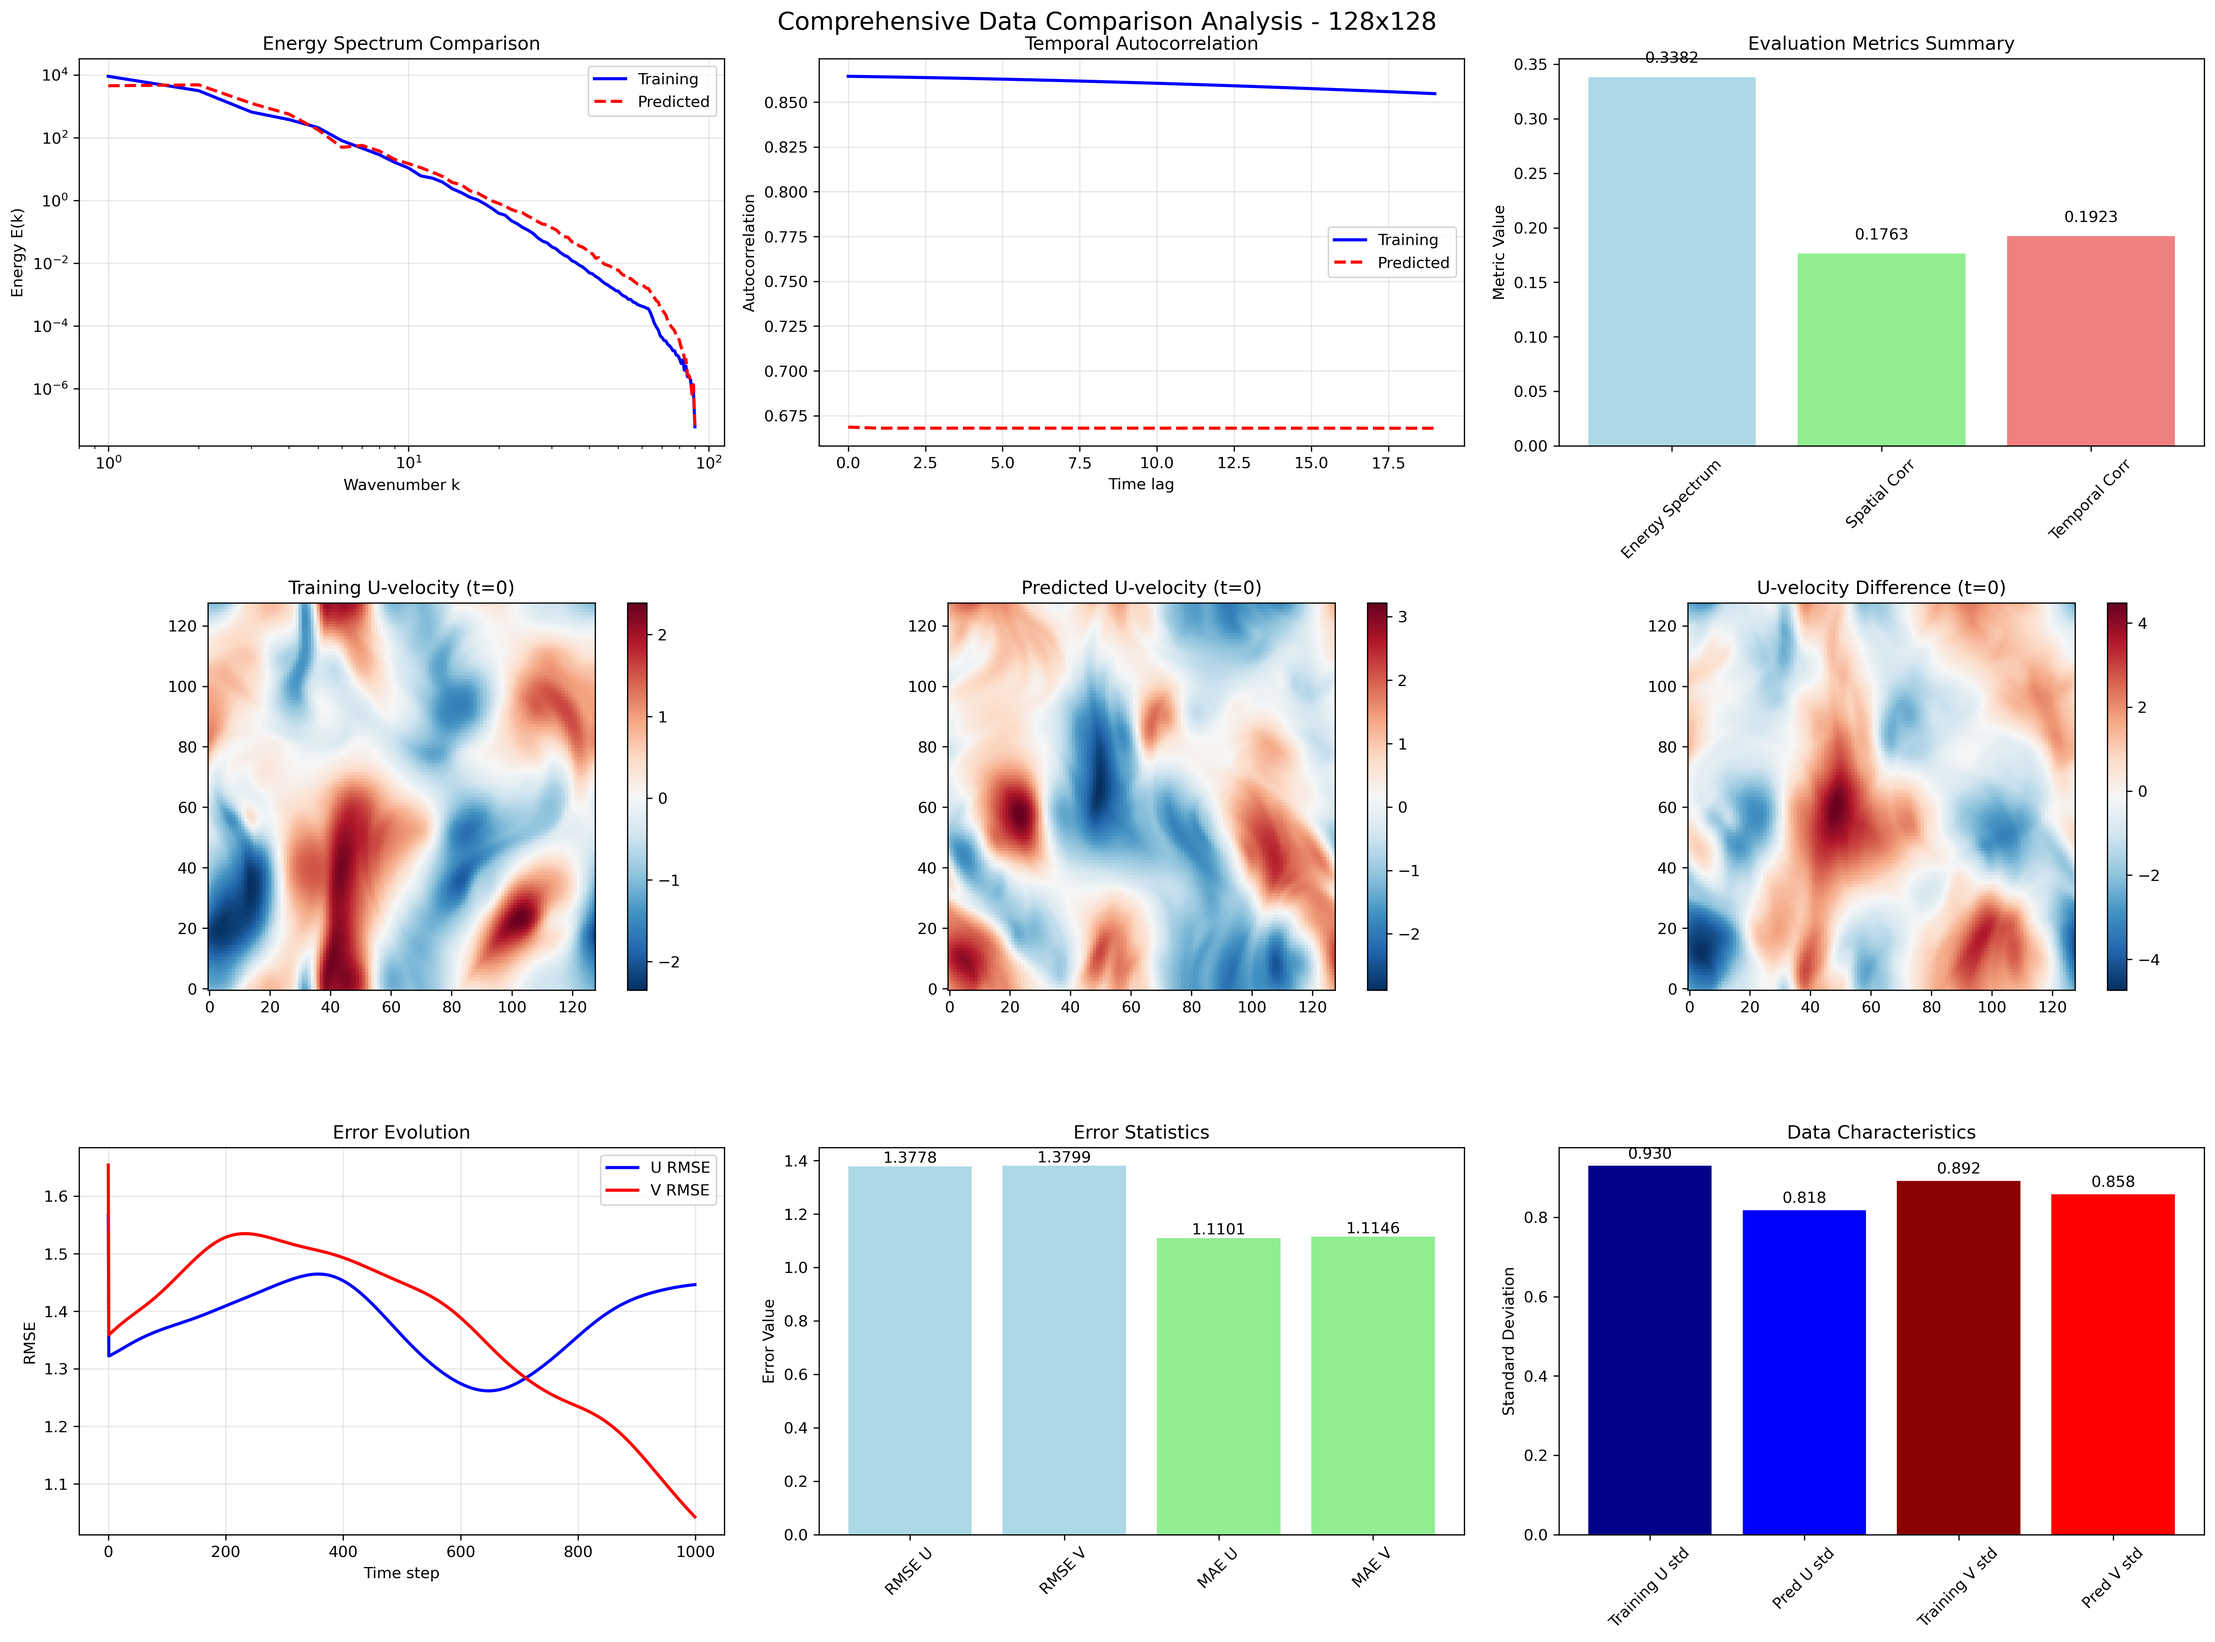
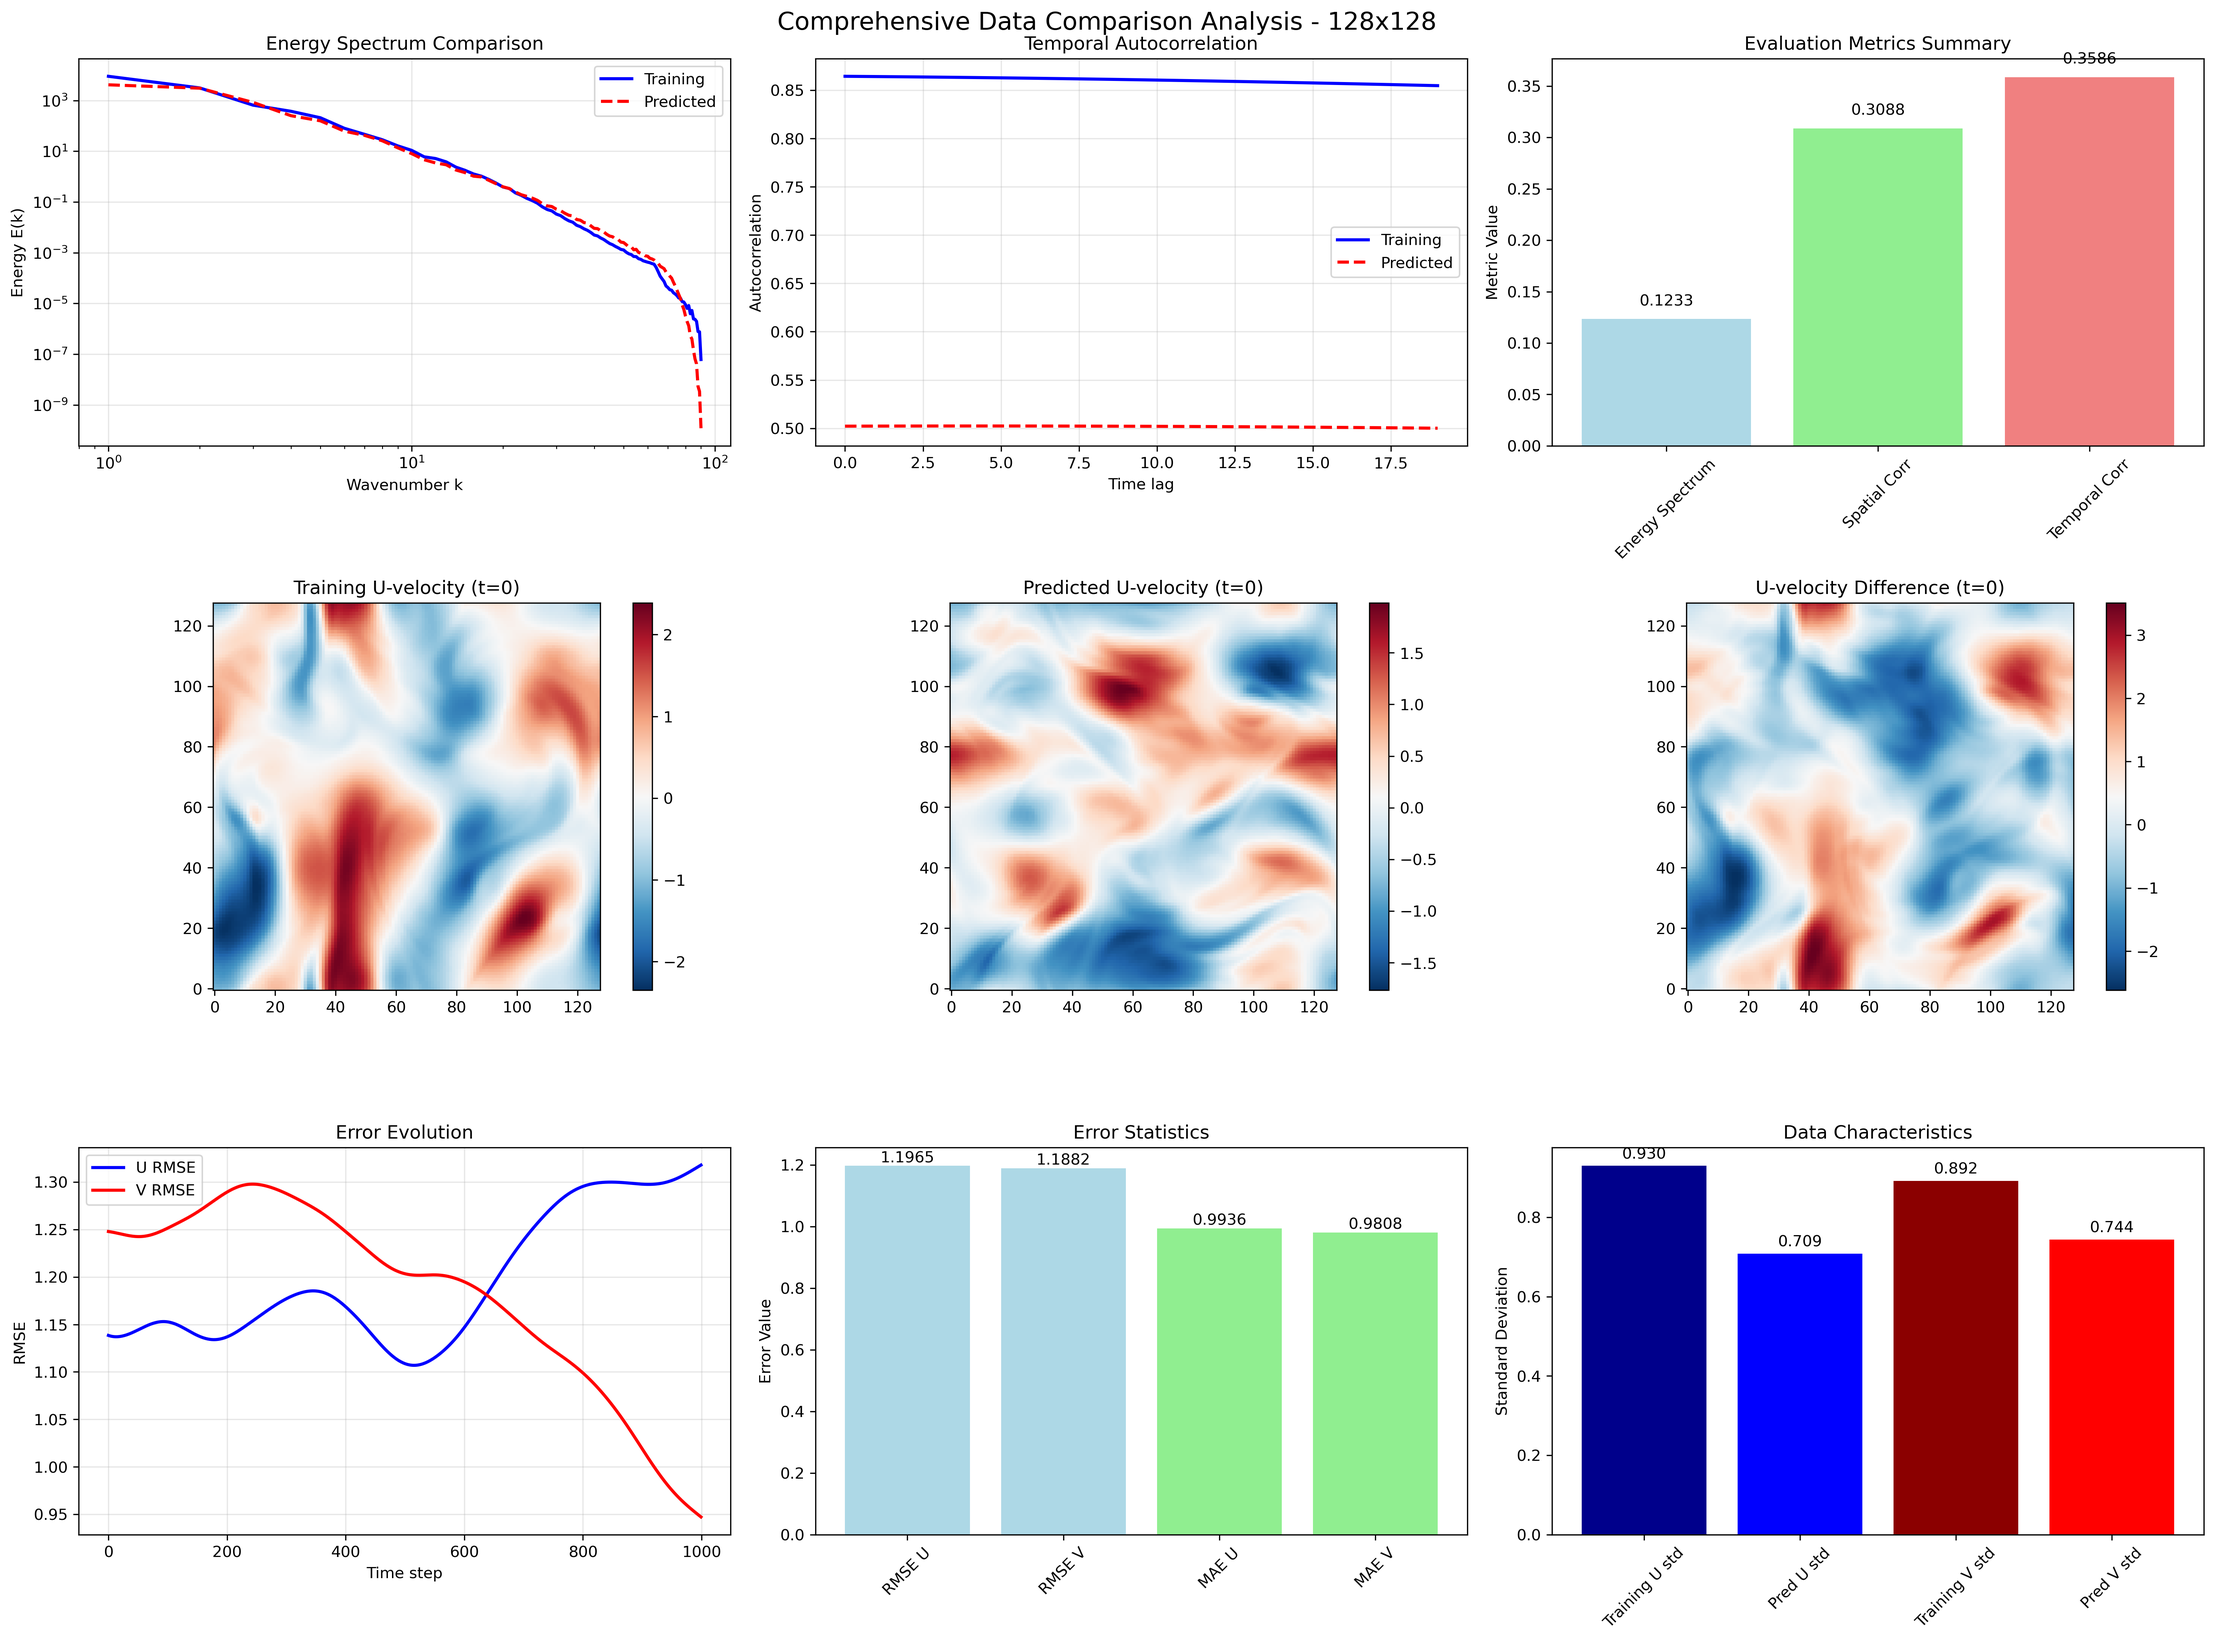
add refined data comparison results

diff --git a/refined_data_comparison.py b/refined_data_comparison.py
@@ -303,7 +303,7 @@ def main():
         print(f"{'='*60}")
         
         training_file = f"data/training_data/decaying_turbulence_v2_{resolution}_index_1.npz"
-        pred_file = f"data/pict_data/decaying_turbulence_{resolution}_index_1.npz"
+        pred_file = f"data/pict_data/pict_from_warmup_with_comparison_{resolution}_index_1.npz"
         
         if not os.path.exists(training_file):
             print(f"Training file not found: {training_file}")
